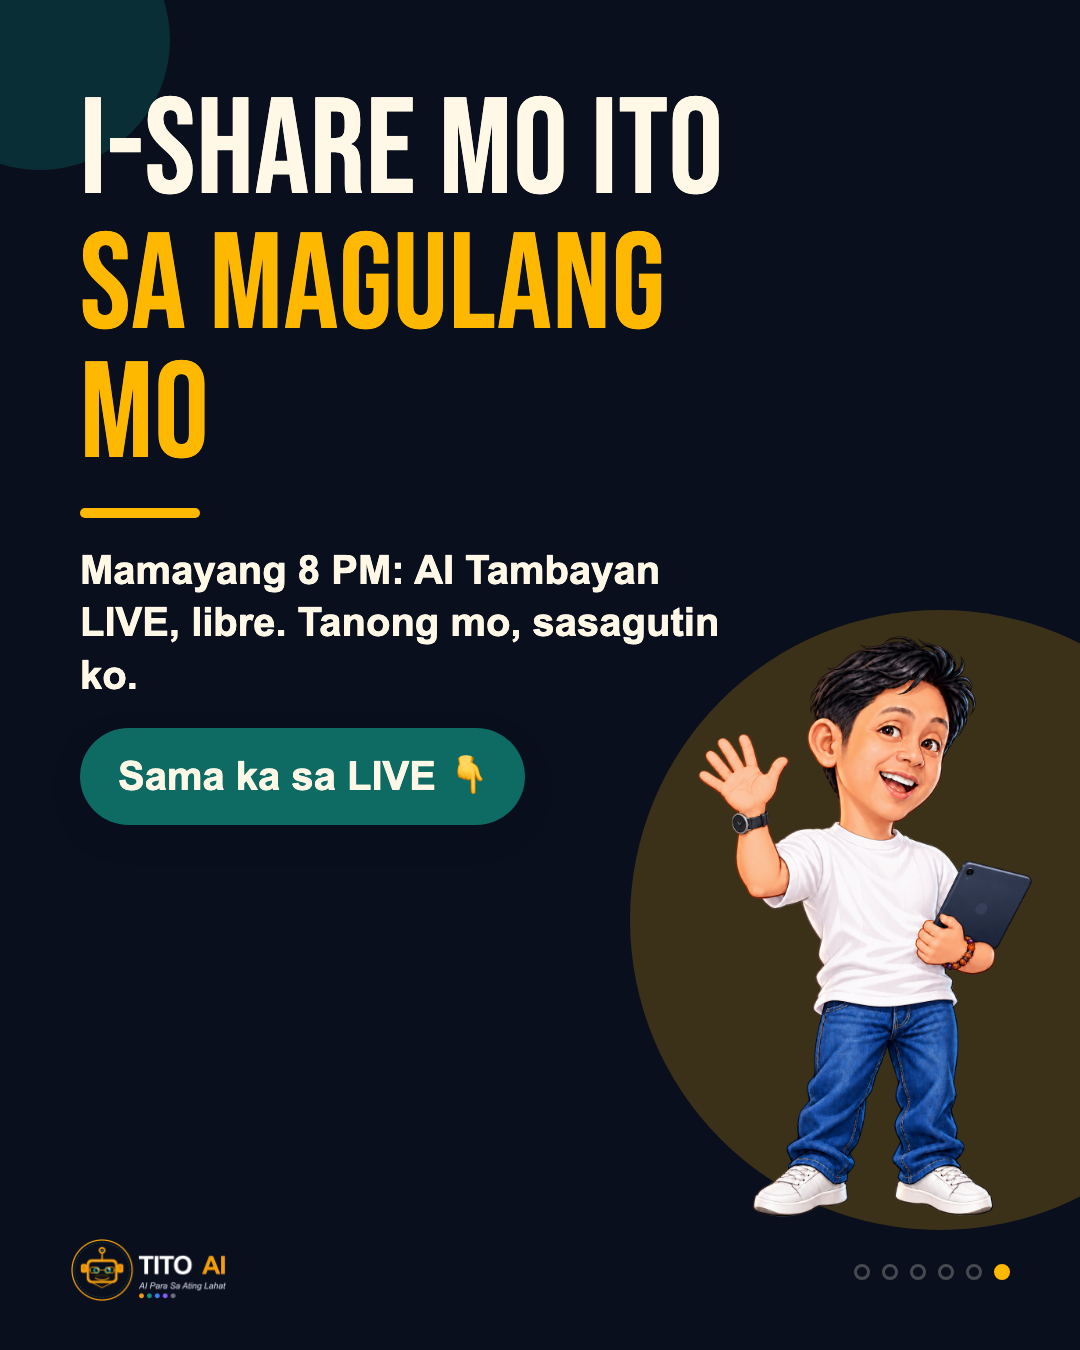
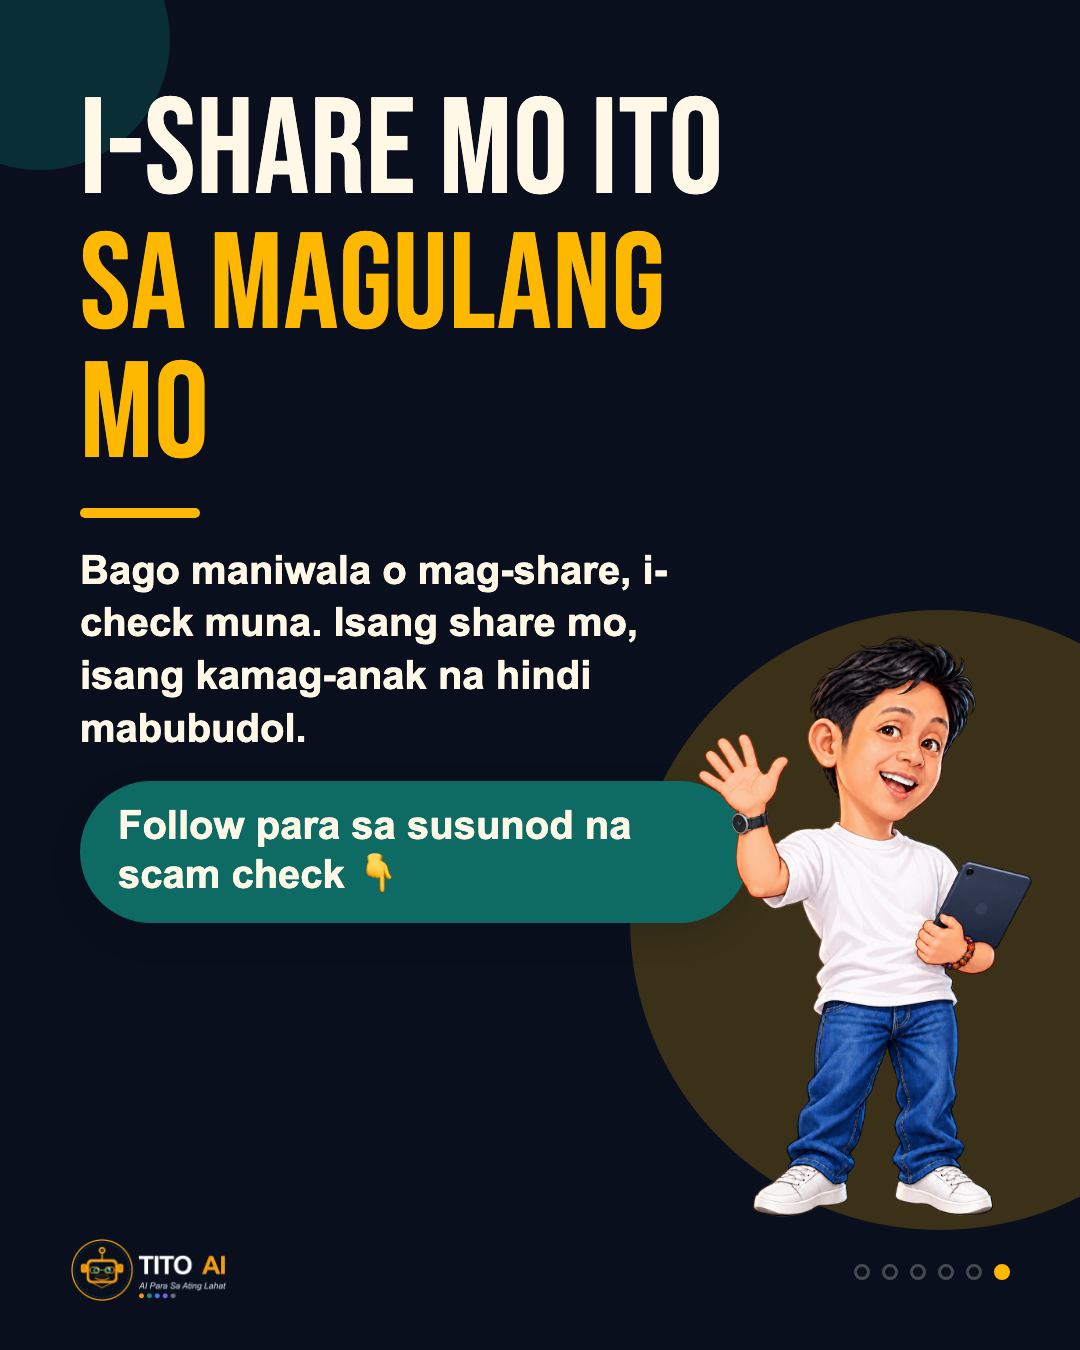
W48 Sat scam slides: remove live line, new slide 6, re-scheduled

Changed region(s): [[0.0611, 0.4044, 0.7028, 0.6844]]

diff --git a/content/2026-W48/06-sat-scam-slides/drafts/captions.md b/content/2026-W48/06-sat-scam-slides/drafts/captions.md
@@ -1,11 +1,11 @@
 **Slides:** `docs/media/w48-sat-scam-slides/s1–s6.png` (1080×1350). Proof screenshots: Claude Code's Gemini run Nov 24 (work account, so no "libre" claim about this run). Source for the fake: PhilHealth press release Nov 9, 2026, reported by Insurance Business Asia Nov 18 (https://www.insurancebusinessmag.com/asia/news/cyber/aigenerated-video-falsely-promises-philhealth-cash-payout-597891.aspx). Don't show or link the fake video itself.
-**Post:** Sat Nov 28, 7:00 AM PHT (Fri 3:00 PM PST). TikTok photo mode + IG carousel + FB photos. Slide 6 says the free live is tonight 8 PM: confirm the live time before posting.
+**Post:** Sat Nov 28, 7:00 AM PHT (Fri 3:00 PM PST). TikTok photo mode + IG carousel + FB photos. Live line removed Nov 26 (live date not set yet, Jeff); slide 6 now ends with a follow CTA.
 
 # Captions: Peke ba ang Video? PhilHealth Cash Payout
 
 ## TikTok
 
-May kumakalat na AI video: PhilHealth daw may cash payout, i-click lang ang link. Peke 'yan, sabi mismo ng PhilHealth. 5 red flags bago mag-click, at ang prompt para i-check gamit ang AI. I-share mo sa magulang mo. Mamayang 8 PM, AI Tambayan LIVE 👇
+May kumakalat na AI video: PhilHealth daw may cash payout, i-click lang ang link. Peke 'yan, sabi mismo ng PhilHealth. 5 red flags bago mag-click, at ang prompt para i-check gamit ang AI. I-share mo sa magulang mo. Follow para sa susunod na scam check 👇
 
 #TitoAIPH #MgaPamangkin #AIParaSaAtin #ScamAlert #PhilHealth
 
@@ -22,7 +22,7 @@ Bago mag-click o mag-share:
 4. Minamadali ka
 5. AI na boses o mukha ng opisyal
 
-I-share mo sa magulang mo. Mamayang 8 PM, sama ka sa AI Tambayan LIVE, libre 👇
+I-share mo sa magulang mo, at i-follow ang Tito AI para sa susunod na scam check 👇
 
 #TitoAIPH #MgaPamangkin #AIParaSaAtin #ScamAlert #PhilHealth
 
@@ -34,7 +34,7 @@ May kumakalat na AI video: ₱5,000 daw mula PhilHealth, i-click lang ang link a
 
 Bago maniwala o mag-share, tanungin muna ang AI (nasa slide 4 ang prompt), tapos i-check sa philhealth.gov.ph o sa verified PhilHealth page. Hindi kailanman hihingin ng totoong ahensya ang PIN o OTP mo sa isang link.
 
-I-share mo ito sa magulang at kamag-anak mo. Mamayang 8 PM, AI Tambayan LIVE, libre. Tanong mo, sasagutin ko 👇
+I-share mo ito sa magulang at kamag-anak mo. May tanong ka? I-comment mo, sasagutin ko 👇
 
 #TitoAIPH #MgaPamangkin #AIParaSaAtin #ScamAlert #PhilHealth
 
